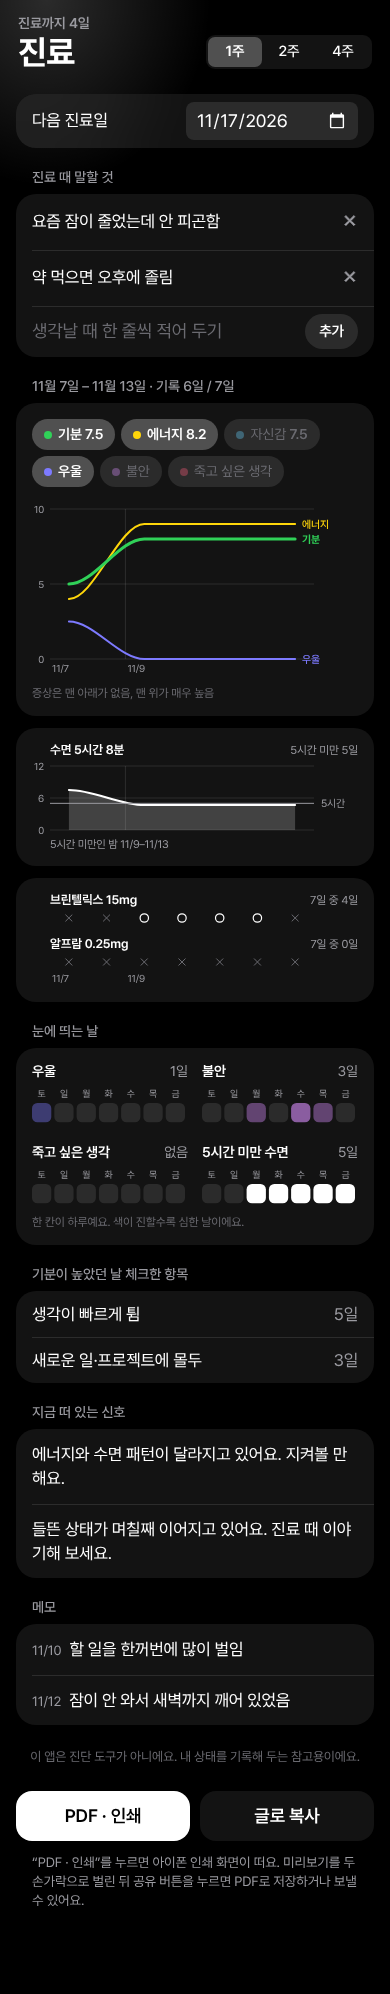
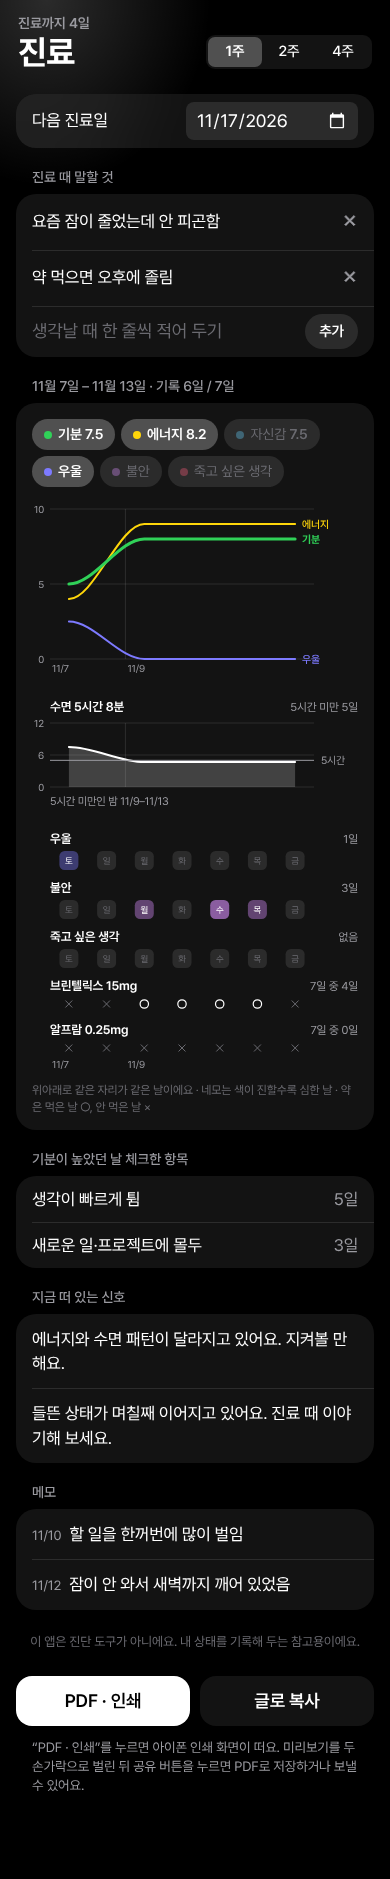
Tide: symptom squares sit on the same day axis as the clinic charts
The weekday squares (letter inside, coloured when the symptom was present, darker when stronger) now run across the whole period in one row per symptom, directly under the chart and sleep curve and above the medication marks, all in one card with the same day positions. A day without medication, a low mood and thoughts of dying line up vertically. The separate two-column grid is gone.

Claude-Session: https://claude.ai/code/session_01Du4KAy7crrN67i73oW7iBF

diff --git a/mood/js/views/clinic.js b/mood/js/views/clinic.js
@@ -1,6 +1,6 @@
 // 진료 화면: 다음 진료일, 진료 때 말할 것, 진료용 요약 (최근 2주/4주를 한 장으로)
 import { SHORT_SLEEP, summary } from '../analysis.js';
-import { DISCLAIMER, LEVELS } from '../constants.js';
+import { DISCLAIMER, LEVELS, SYMPTOMS } from '../constants.js';
 import { WD, durText, md, parse, today } from '../dates.js';
 import { app, esc } from '../dom.js';
 import { F, T } from '../i18n.js';
@@ -46,8 +46,8 @@ function dateRanges(list) {
   return runs.map(([a, b]) => (a === b ? shortDate(a) : `${shortDate(a)}–${shortDate(b)}`)).join(', ');
 }
 
-// 요약에 들어가는 그림 세 장: 큰 그래프(켜 둔 선들, 선 끝에 이름) · 수면(곡선) · 약과 생리(먹은 날 ○, 안 먹은 날 ×).
-// 카드는 따로지만 셋 다 같은 너비와 여백으로 그려서 날짜가 세로로 맞는다.
+// 요약에 들어가는 그림 세 장: 큰 그래프(켜 둔 선들, 선 끝에 이름) · 수면(곡선) · 줄들(증상 네모, 약 ○×, 생리 ○).
+// 셋 다 같은 너비와 여백으로 그려서, 위아래로 같은 자리가 같은 날이다 (약을 안 먹은 날의 기분·증상이 한 줄로 이어져 보인다).
 // 선은 전부 부드러운 실선이다. 색은 CSS 변수를 따라가서 다크·라이트·인쇄에서 그대로 읽힌다.
 function figures(s, width) {
   // 오른쪽에는 선 끝 이름이 들어갈 자리를 둔다 (이름이 긴 "죽고 싶은 생각"을 켰을 때만 넓게)
@@ -117,7 +117,21 @@ function figures(s, width) {
   }
   const sleep = take('sum-sleep', y);
 
-  // 3. 약 · 생리: 얇은 선으로 먹은 날 ○, 안 먹은 날 ×
+  // 3. 증상: 날마다 요일이 적힌 네모 한 칸, 그런 날은 색칠 (단계가 높을수록 진하게). 위 그래프와 같은 날짜 자리에 놓인다.
+  //    칸이 좁으면(4주) 요일 글자는 뺀다.
+  const sq = Math.max(4, Math.min(col - 2, 19)), wd = WD();
+  SYMPTOMS.filter(([k]) => itemOn(k)).forEach(([k, name]) => {
+    const count = s.days.filter((e) => e && e[k]).length;
+    head(name, count ? F('{0}일', count) : T('없음'));
+    s.dates.forEach((d, i) => {
+      const v = (s.days[i] && s.days[i][k]) || 0, x = cx(i) - sq / 2, top = y + 8;
+      out += `<rect x="${x.toFixed(1)}" y="${top}" width="${sq.toFixed(1)}" height="${sq.toFixed(1)}" rx="${(sq * 0.28).toFixed(1)}" ${v ? `style="fill:var(--l-${k})" fill-opacity="${[0, 0.4, 0.6, 0.8, 1][v]}"` : 'class="c0"'}/>`;
+      if (sq >= 13) out += `<text x="${cx(i).toFixed(1)}" y="${(top + sq / 2 + 3.2).toFixed(1)}" text-anchor="middle" font-size="9" style="fill:${v >= 3 ? '#fff' : v ? 'var(--text)' : 'var(--faint)'}">${wd[parse(d).getDay()][0]}</text>`;
+    });
+    y += 8 + sq + 22;
+  });
+
+  // 4. 약 · 생리: 얇은 선으로 먹은 날 ○, 안 먹은 날 ×
   const r = Math.max(2, Math.min(col / 2 - 1.5, 4.2));
   const marksRow = (has, cross) => {
     s.dates.forEach((d, i) => {
@@ -139,9 +153,9 @@ function figures(s, width) {
     head(T('생리'), F('{0}일', s.period.length));
     marksRow((d, e) => e && e.period, false);
   }
-  if (!meds.length && !period) return { chart, sleep, marks: '' };
+  if (!out) return { chart, sleep, rows: '' };
   dateLabels(y - 10);
-  return { chart, sleep, marks: take('sum-meds', y - 4) };
+  return { chart, sleep, rows: take('sum-rows', y - 4) };
 }
 
 // 요약에 들어갈 줄들: [이름, 내용]. 화면과 복사용 글이 같은 줄을 쓴다.
@@ -161,48 +175,23 @@ function summaryRows(s) {
   };
 }
 
-// 눈에 띄는 날: 항목마다 요일 칸을 놓고 그런 날을 색칠한다 (7일이 한 줄, 여러 주면 줄이 늘어난다).
-// 증상은 단계가 높을수록 진하게, "5시간 미만 수면"은 해당하는 밤만 칠한다. 인쇄에도 나오도록 SVG로 그린다.
-function dayGrids(s, width) {
-  const w = Math.floor((width - 14) / 2), rows = s.dates.length / 7, lab = rows > 1 ? 30 : 0, cell = (w - lab) / 7, sz = cell - 3, wd = WD();
-  const items = [
-    ...[['dep', T('우울')], ['anx', T('불안')], ['si', T('죽고 싶은 생각')]].filter(([k]) => itemOn(k)).map(([k, name]) => [name, `var(--l-${k})`, (e) => (e && e[k]) || 0]),
-    ...(itemOn('sleep') ? [[T('5시간 미만 수면'), 'var(--ink)', (e) => (e && e.sleepMin != null && e.sleepMin < SHORT_SLEEP ? 4 : 0)]] : []),
-  ];
-  return items.map(([name, color, level]) => {
-    const vals = s.days.map(level), count = vals.filter(Boolean).length;
-    let out = '';
-    for (let c = 0; c < 7; c++) out += `<text x="${(lab + cell * c + sz / 2).toFixed(1)}" y="9" text-anchor="middle" font-size="9.5" style="fill:var(--muted)">${wd[parse(s.dates[c]).getDay()]}</text>`;
-    vals.forEach((v, i) => {
-      const x = lab + cell * (i % 7), y = 15 + cell * Math.floor(i / 7);
-      if (lab && i % 7 === 0) out += `<text x="0" y="${(y + sz / 2 + 3.5).toFixed(1)}" font-size="9" style="fill:var(--faint)">${shortDate(s.dates[i])}</text>`;
-      out += `<rect x="${x.toFixed(1)}" y="${y.toFixed(1)}" width="${sz.toFixed(1)}" height="${sz.toFixed(1)}" rx="${(sz * 0.28).toFixed(1)}" ${v ? `style="fill:${color}" fill-opacity="${[0, 0.4, 0.6, 0.8, 1][v]}"` : 'class="c0"'}/>`;
-    });
-    return `<div class="sum-grid"><div class="sg-h"><span>${name}</span><span>${count ? F('{0}일', count) : T('없음')}</span></div><svg width="${w}" height="${(15 + cell * rows).toFixed(1)}" role="img">${out}</svg></div>`;
-  }).join('');
-}
-
-// 요약 본문: 그림 세 장과 눈에 띄는 날·신호·메모를 카드로 나눠 놓는다 (인쇄하면 이 부분이 한 장으로 나간다)
+// 요약 본문: 그림 세 장을 한 카드에 쌓고, 체크 항목·신호·메모를 카드로 나눠 놓는다 (인쇄하면 이 부분이 한 장으로 나간다)
 function summaryHtml(weeks) {
   const s = summary(weeks);
   const width = Math.max(240, Math.min(app.clientWidth, 480) - 32 - 32);
   const fig = figures(s, width);
   // 큰 그래프의 선을 켜고 끄는 단추: 기분·에너지·자신감은 평균을 옆에 적는다
   const toggles = lineDefs().map(([key, name, max]) => `<button class="sum-tog" data-act="clinicLine" data-k="${key}" aria-pressed="${clinicView.lines.includes(key)}"><i style="background:${lineColor(key)}"></i>${name}${max === 10 && s[key] ? ` <b>${one(s[key].avg)}</b>` : ''}</button>`).join('');
-  const grids = dayGrids(s, width);
   const signs = s.signs.map(([name, c]) => li(esc(name), F('{0}일', c)));
   const says = (title, rows) => (rows.length ? `<div class="sec">${title}</div><section class="card list">${rows.join('')}</section>` : '');
   return `
     <div class="sec">${md(parse(s.dates[0]))} – ${md(parse(s.dates[s.dates.length - 1]))} · ${F('기록 {0}일 / {1}일', s.got.length, s.dates.length)}</div>
-    ${toggles ? `<section class="card">
-      <div class="sum-togs">${toggles}</div>
-      ${fig.chart}
-      <p class="sum-key">${T('증상은 맨 아래가 없음, 맨 위가 매우 높음')}</p>
-    </section>` : ''}
-    ${itemOn('sleep') ? `<section class="card">${fig.sleep}</section>` : ''}
-    ${fig.marks ? `<section class="card">${fig.marks}</section>` : ''}
-    ${grids ? `<div class="sec">${T('눈에 띄는 날')}</div><section class="card" id="sum-days"><div class="sum-grids">${grids}</div>
-      <p class="sum-key">${T('한 칸이 하루예요. 색이 진할수록 심한 날이에요.')}</p></section>` : ''}
+    <section class="card sum-stack">
+      ${toggles ? `<div class="sum-togs">${toggles}</div>${fig.chart}` : ''}
+      ${itemOn('sleep') ? fig.sleep : ''}
+      ${fig.rows}
+      <p class="sum-key">${T('위아래로 같은 자리가 같은 날이에요 · 네모는 색이 진할수록 심한 날 · 약은 먹은 날 ○, 안 먹은 날 ×')}</p>
+    </section>
     ${says(T('기분이 높았던 날 체크한 항목'), signs)}
     ${says(T('지금 떠 있는 신호'), s.signals.map((x) => `<div class="li say">${esc(x)}</div>`))}
     ${says(T('메모'), s.notes.map(([d, note]) => `<div class="li say note"><small>${shortDate(d)}</small> ${esc(note)}</div>`))}

diff --git a/mood/tests/smoke.js b/mood/tests/smoke.js
@@ -198,8 +198,8 @@ function seed() {
 
   // 5-2. 진료 탭: 다음 진료일, 말할 것, 요약
   await page.click('[data-tab=clinic]');
-  check('진료용 요약에 그림과 눈에 띄는 날, 약이 나옴', (await page.$$('#sum-meds circle')).length > 3 && (await page.$$('#sum-fig path')).length >= 3 && (await page.$$('#sum-days rect')).length % 14 === 0 && (await page.$$('#sum-days rect[style]')).length > 0
-    && (await text('#sum-days')).includes('우울') && (await text('#sum-meds')).includes('브린텔릭스') && (await text('#sum-sleep')).includes('5시간 미만'));
+  check('진료용 요약에 그림과 눈에 띄는 날, 약이 나옴', (await page.$$('#sum-rows circle')).length > 3 && (await page.$$('#sum-fig path')).length >= 3 && (await page.$$('#sum-rows rect')).length % 14 === 0 && (await page.$$('#sum-rows rect[style]')).length > 0
+    && (await text('#sum-rows')).includes('우울') && (await text('#sum-rows')).includes('브린텔릭스') && (await text('#sum-sleep')).includes('5시간 미만'));
   const anxOff = !(await text('#sum-fig')).includes('불안');
   await page.click('.sum-tog[data-k=anx]');
   check('큰 그래프에서 선을 켜고 끔', anxOff && (await text('#sum-fig')).includes('불안') && (await page.getAttribute('.sum-tog[data-k=anx]', 'aria-pressed')) === 'true');
@@ -212,7 +212,7 @@ function seed() {
   await page.click('[data-act=clinicWeeks][data-w="4"]');
   check('4주 요약', (await text('#summary')).includes('/ 28일'));
   await page.click('[data-act=clinicWeeks][data-w="1"]');
-  check('1주 요약: 요일 칸이 항목마다 7개', (await text('#summary')).includes('/ 7일') && (await page.$$('#sum-days .sum-grid:first-child rect')).length === 7);
+  check('1주 요약: 요일이 적힌 네모가 날마다 한 칸', (await text('#summary')).includes('/ 7일') && (await page.$$('#sum-rows rect')).length % 7 === 0 && (await page.$$('#sum-rows rect + text')).length > 0);
   await page.click('[data-act=clinicWeeks][data-w="4"]');
   await page.click('[data-act=copySummary]');
   check('요약을 글로 복사', await page.waitForFunction(() => document.querySelector('#toast').textContent === '복사했어요', null, { timeout: 3000 }).then(() => true, () => false));

diff --git a/mood/js/i18n.js b/mood/js/i18n.js
@@ -43,7 +43,6 @@ const DICT = {
   '오늘 진료': 'Appointment today',
   '의사에게 보여 줄 것들': 'Things to show your doctor',
   '1주': '1 wk',
-  '한 칸이 하루예요. 색이 진할수록 심한 날이에요.': 'Each square is a day. Darker means a harder day.',
   '2주': '2 wk',
   '4주': '4 wk',
   '다음 진료일': 'Next appointment',
@@ -52,7 +51,7 @@ const DICT = {
   '추가': 'Add',
   '진료용 요약': 'Summary for your appointment',
   '평균 (가장 낮은 날–가장 높은 날)': 'Average (lowest–highest day)',
-  '증상은 맨 아래가 없음, 맨 위가 매우 높음': 'Symptoms run from none at the bottom to very high at the top',
+  '위아래로 같은 자리가 같은 날이에요 · 네모는 색이 진할수록 심한 날 · 약은 먹은 날 ○, 안 먹은 날 ×': 'The same position up and down is the same day · darker squares mean a harder day · medication: ○ taken, × not taken',
   '5시간': '5 h',
   '5시간 미만인 밤': 'Nights under 5 h:',
   '5시간 미만 {0}일': 'Under 5 h on {0} days',

diff --git a/mood/app.css b/mood/app.css
@@ -385,10 +385,8 @@ input[type=date] { border: 0; outline: none; background: var(--card2); color: va
 #summary svg { display: block; overflow: visible; font-family: inherit; }
 .sum-key { color: var(--faint); font-size: calc(10.5px * var(--fs, 1.12)); margin: 8px 0 0; line-height: 1.45; }
 
-/* 진료용 요약: 눈에 띄는 날 (항목마다 요일 칸) */
-.sum-grids { display: grid; grid-template-columns: 1fr 1fr; gap: 18px 14px; }
-.sg-h { display: flex; justify-content: space-between; gap: 6px; font-size: calc(12.5px * var(--fs, 1.12)); font-weight: 600; margin-bottom: 7px; white-space: nowrap; }
-.sg-h span:last-child { color: var(--muted); font-weight: 400; }
+/* 진료용 요약: 그림들을 한 카드에 위아래로 쌓는다. 증상 네모의 빈 칸 색 */
+.sum-stack svg + svg { margin-top: 22px; }
 .c0 { fill: var(--card2); }
 @media print { .c0 { fill: none; stroke: #ccc; } }
 

diff --git a/mood/sw.js b/mood/sw.js
@@ -1,7 +1,7 @@
 // 오프라인에서도 열리도록 앱 파일을 저장해 둔다.
 // 인터넷이 될 때는 항상 최신 파일을 먼저 받아오고, 안 될 때만 저장본을 쓴다.
 // 앱 파일을 바꿔서 올릴 때마다 CACHE 숫자를 하나 올린다. js/ 에 파일을 더하면 JS 목록에도 더한다.
-const CACHE = 'tide-v53';
+const CACHE = 'tide-v54';
 const JS = ['main', 'config', 'i18n', 'constants', 'store', 'dates', 'theme', 'icons', 'dom', 'state', 'meds', 'analysis', 'files', 'render', 'swipe', 'lock',
   'views/today', 'views/trend', 'views/insight', 'views/record', 'views/settings', 'views/clinic', 'views/notes'];
 const FILES = ['./', 'index.html', 'app.css', 'manifest.webmanifest',

diff --git a/mood/js/config.js b/mood/js/config.js
@@ -2,4 +2,4 @@
 export const KEY = 'tide.v1', OLD_KEY = 'harugyeol.v1';
 
 // 설정 화면 맨 아래에 보이는 번호. 올릴 때마다 sw.js의 CACHE 숫자와 같이 하나 올린다.
-export const VERSION = 53;
+export const VERSION = 54;
